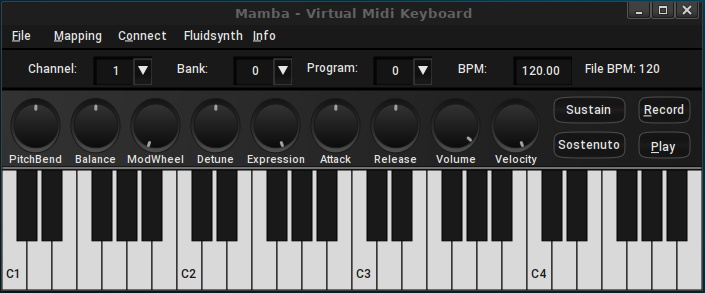
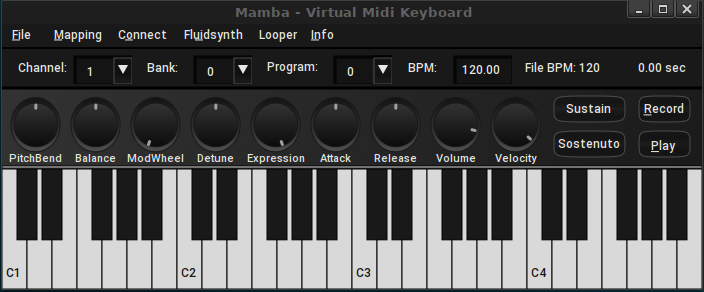
Update Readme, update sreenshot

diff --git a/src/MidiKeyBoard.cpp b/src/MidiKeyBoard.cpp
@@ -921,13 +921,15 @@ void XKeyBoard::animate_midi_keyboard(void *w_) {
         static int scip = 8;
         if (scip >= 8) {
             XLockDisplay(w->app->dpy);
-            if (xjmkb->xjack->get_max_loop_time() > 0.0) {
+            if ( xjmkb->xjack->play && xjmkb->xjack->get_max_loop_time() > 0.0) {
                 snprintf(xjmkb->time_line->input_label, 31,"%.2f sec", 
                     xjmkb->xjack->get_max_loop_time() -
                     (double)((xjmkb->xjack->stPlay - xjmkb->xjack->stStart)/(double)xjmkb->xjack->SampleRate));
-            } else {
+            } else if (xjmkb->xjack->record && xjmkb->xjack->play) {
                 snprintf(xjmkb->time_line->input_label, 31, "%.2f sec",
-                    (double)((xjmkb->xjack->stPlay - xjmkb->xjack->stStart)/(double)xjmkb->xjack->SampleRate));
+                    (double)((xjmkb->xjack->stPlay - xjmkb->xjack->rcStart)/(double)xjmkb->xjack->SampleRate));
+            } else {
+                snprintf(xjmkb->time_line->input_label, 31, "%.2f sec", xjmkb->xjack->get_max_loop_time());
             }
             xjmkb->time_line->label = xjmkb->time_line->input_label;
             expose_widget(xjmkb->time_line);
@@ -1564,7 +1566,7 @@ void XKeyBoard::sostenuto_callback(void *w_, void* user_data) noexcept{
 void XKeyBoard::find_next_beat_time(double *absoluteTime) {
     double beat = 60.0/(double)song_bpm;
     int beats = std::round(((*absoluteTime)/beat));
-    (*absoluteTime) = beats*beat;
+    (*absoluteTime) = (double)beats*beat;
 }
 
 // static

diff --git a/src/XJack.cpp b/src/XJack.cpp
@@ -121,6 +121,7 @@ XJack::XJack(mamba::MidiMessenger *mmessage_)
         bpm_ratio = 1.0;
         stPlay = 0;
         stStart = 0;
+        rcStart = 0;
         for ( int i = 0; i < 16; i++) posPlay[i] = 0;
         for ( int i = 0; i < 16; i++) startPlay[i] = 0;
         for ( int i = 0; i < 16; i++) stopPlay[i] = 0;
@@ -304,6 +305,7 @@ inline void XJack::process_midi_in(void* buf, void* out_buf, void *arg) {
         xjack->start = jack_last_frame_time(xjack->client);
         xjack->absoluteStart = jack_last_frame_time(xjack->client);
         xjack->absoluteRecordStart = jack_last_frame_time(xjack->client);
+        xjack->rcStart = jack_last_frame_time(xjack->client);
         xjack->fresh_take = false;
         NotOn = 0;
         int b = 0xB0 | xjack->mmessage->channel;
@@ -313,7 +315,7 @@ inline void XJack::process_midi_in(void* buf, void* out_buf, void *arg) {
         const mamba::MidiEvent evp = {{(unsigned char)p, (unsigned char)xjack->program, 0}, 2, 0, 0};
         xjack->st->push_back(evp);
 
-        if (!freewheel && (get_max_time_loop() > -1)) {
+        if (!freewheel && xjack->play && (get_max_time_loop() > -1)) {
             xjack->start = xjack->startPlay[xjack->mmessage->channel];
             xjack->absoluteStart = xjack->startPlay[xjack->mmessage->channel];
         }

diff --git a/src/Mamba.cpp b/src/Mamba.cpp
@@ -293,7 +293,6 @@ void MidiRecord::start() {
                     is_sorted.store(true, std::memory_order_release);
                 return lhs.absoluteTime < rhs.absoluteTime;
             });
-
         }
         // when record stop, recalculate the delta time for sorted vector
         double aTime = 0.0;

diff --git a/src/XJack.h b/src/XJack.h
@@ -114,6 +114,7 @@ public:
     jack_port_t *out_port;
     jack_nframes_t stPlay;
     jack_nframes_t stStart;
+    jack_nframes_t rcStart;
     jack_nframes_t start;
     jack_nframes_t absoluteStart;
     std::string client_name;

diff --git a/README.md b/README.md
@@ -41,6 +41,26 @@ Virtual MIDI Keyboard and MIDI file player/recorder for Jack Audio Connection Ki
 - `ctrl + q` quit
 - `ctrl + c` quit
 
+## Description
+
+16 Channel Live MIDI Looper: 
+
+To record a loop, press "Play" and then to start recording press "Record".
+To stop recording press record again. Playback will start immediately.
+
+The first recorded channel will become the Master channel. This one set the time frame for all later recorded loops.
+For the Master Channel the recording time will be streched/clipped to match the next full beat time point.
+
+To record a new loop, switch to a other channel, select your instrument and press "Record" again to start recording.
+
+The later recorded loops will be synced to the master loop. When the recording time extend the absolute Master loop time
+record will be switched off. Absolute time is not bound to the loop point, so you could record loops crossing it.
+You could as well stop recording by pess "Record" again before the time expires.
+
+Each Channel could be cleared and re-recorded seperate at any time.
+
+You could record the connected input device or play the Keyboard itself.
+
 ## Dependencies
 
 - libfluidsynth-dev
